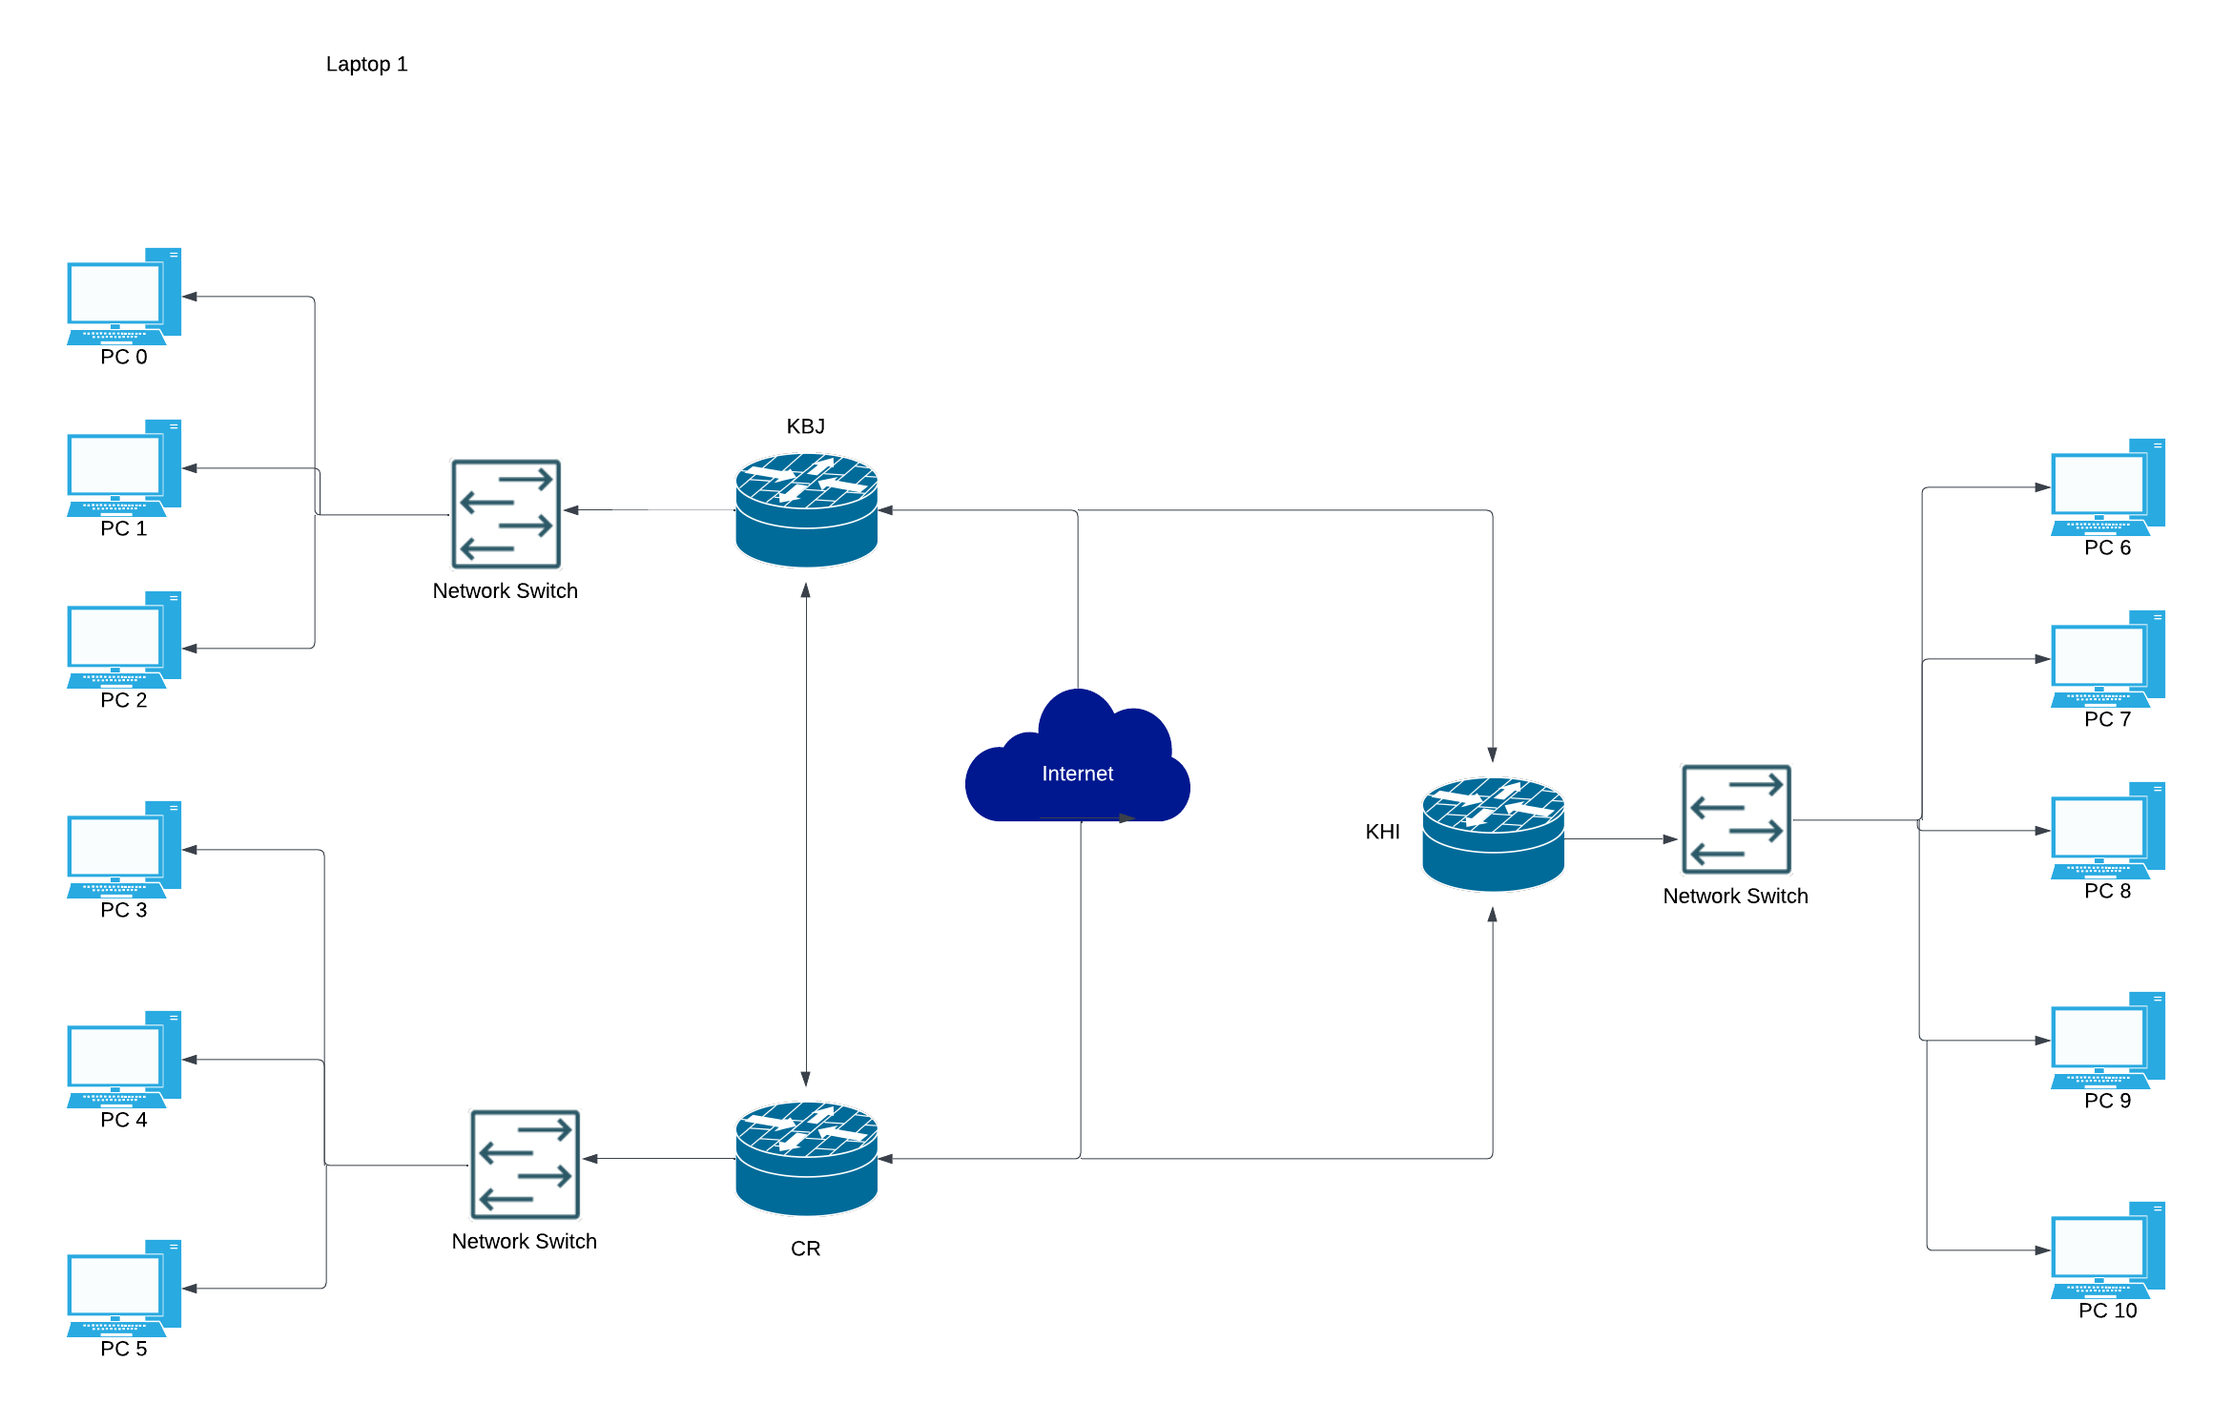
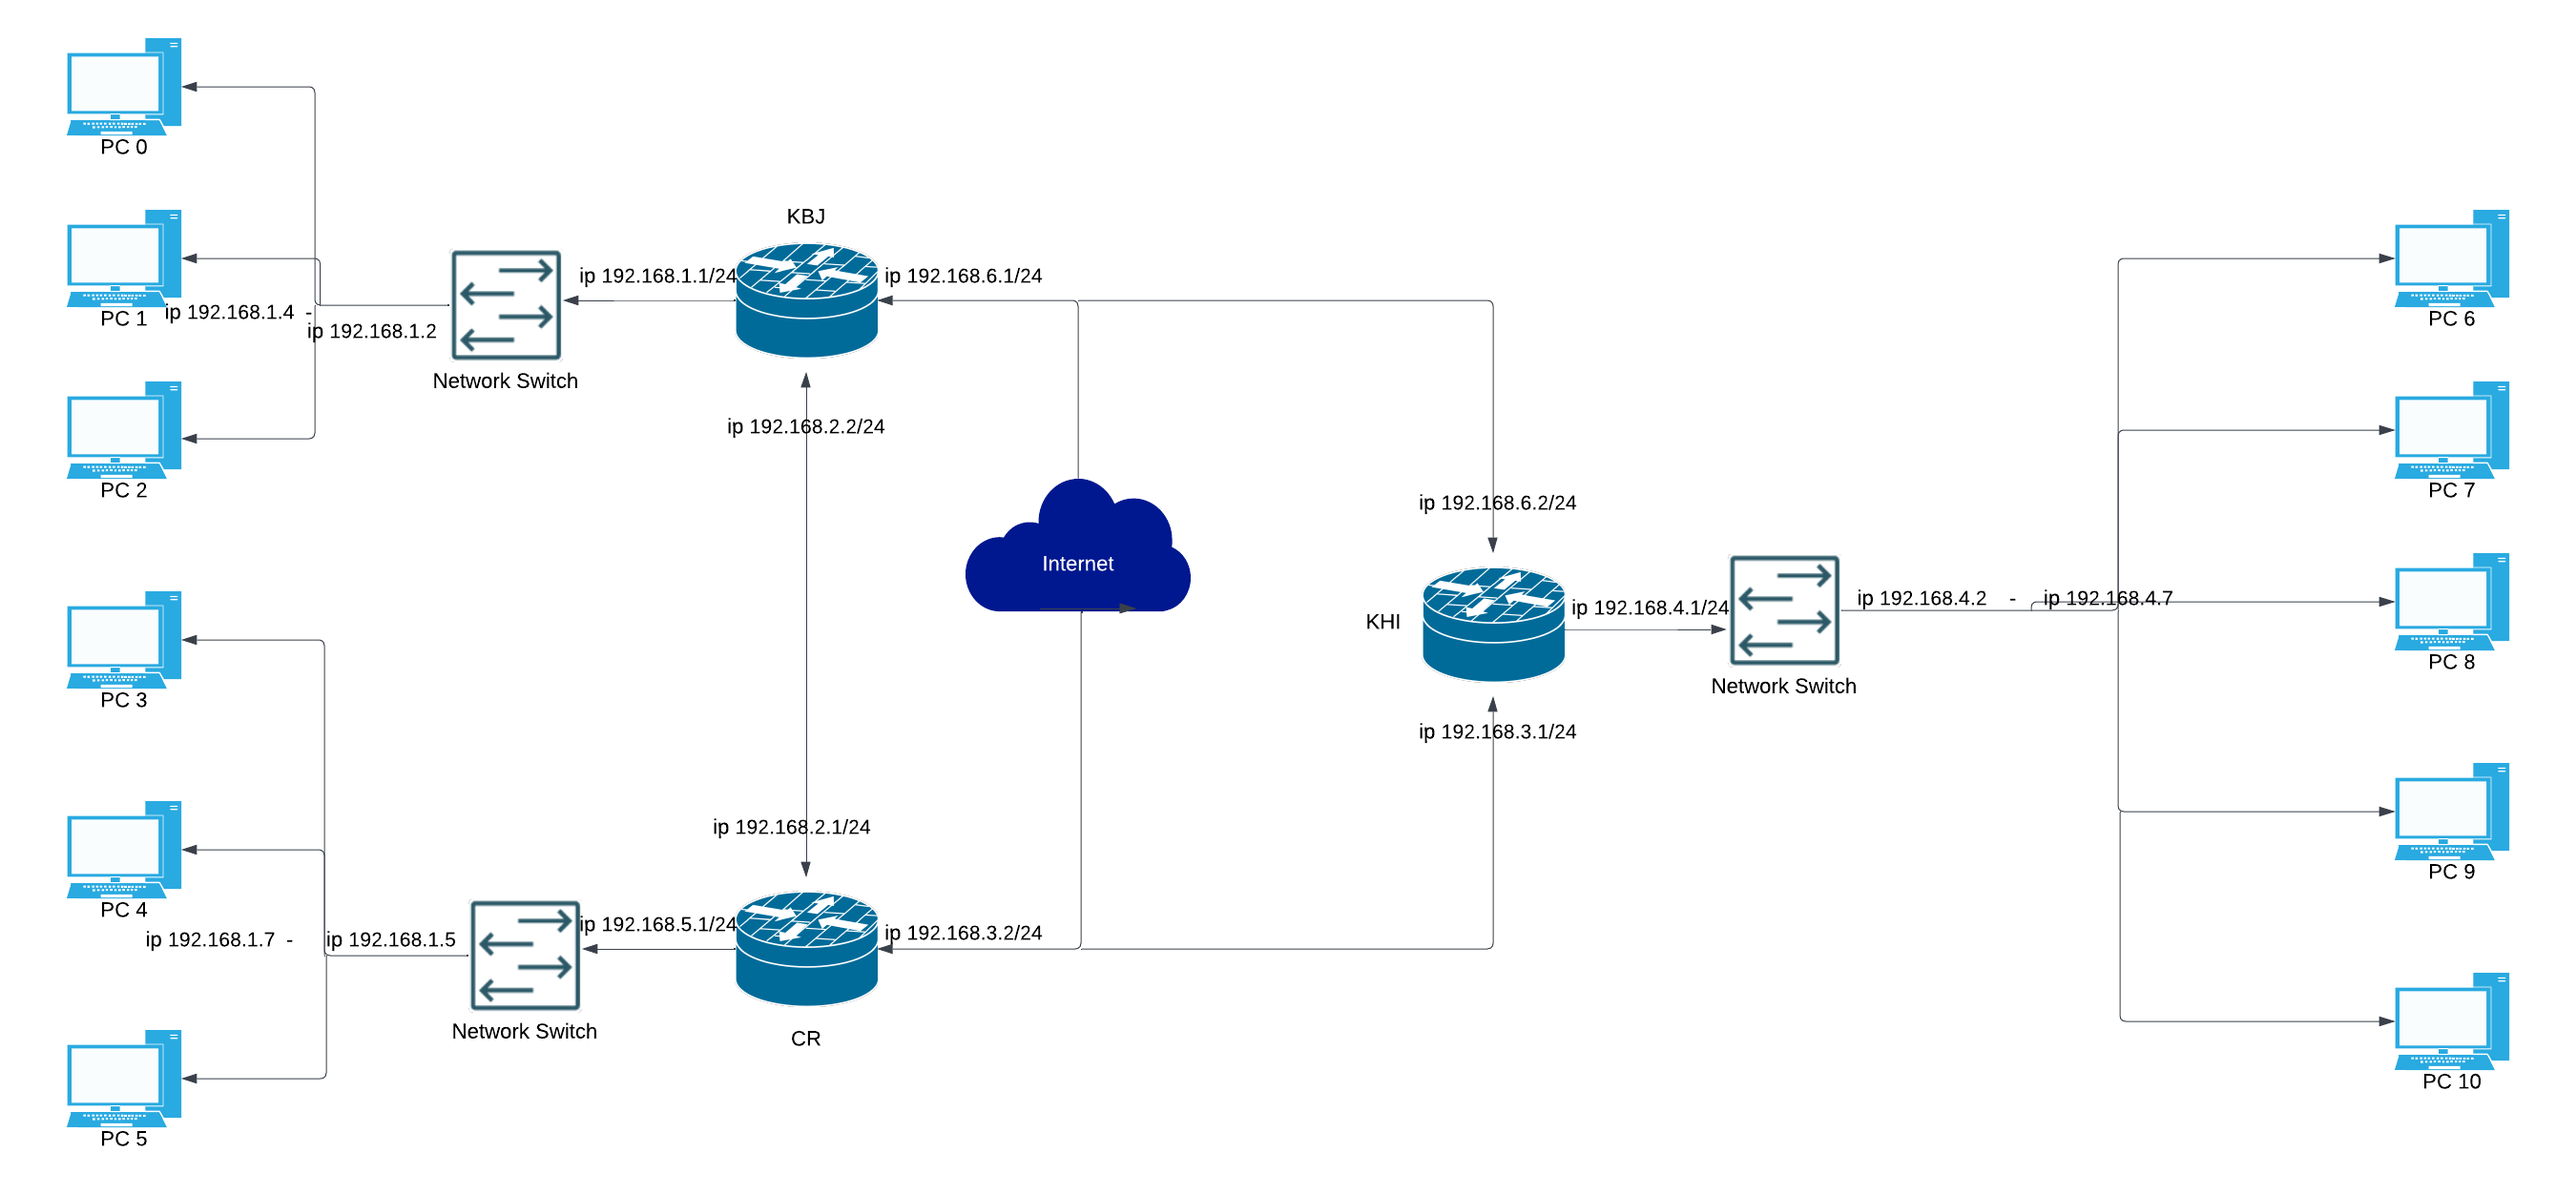
uts

diff --git a/keterangan_topologi.md b/keterangan_topologi.md
@@ -1,4 +1,4 @@
-# Topologi jaringan yang digambarkan mengadopsi struktur star (bintang) pada setiap jaringan lokal yang terhubung ke switch masing-masing, yang kemudian dihubungkan ke router utama. Terdapat tiga router utama dalam jaringan ini, yaitu KBJ, CR, dan KHI. Router KBJ bertindak sebagai gateway untuk Network 1 (192.168.1.0/24) yang menghubungkan PC 0 hingga PC 5 melalui switch, serta terhubung ke router CR melalui Network 2 (192.168.2.0/24). Router CR berfungsi sebagai pusat penghubung yang menghubungkan router KBJ dengan router KHI melalui Network 3 (192.168.3.0/24), memungkinkan komunikasi antar jaringan. 
-# Router KHI kemudian menghubungkan ke Network 4 (192.168.4.0/24) yang menghubungkan PC 6 hingga PC 10 melalui switch, sekaligus terhubung kembali ke router CR. 
-# Semua router menggunakan protokol routing dinamis RIP (Routing Information Protocol) versi 2 untuk memastikan pertukaran informasi routing yang efisien antar jaringan. Setiap perangkat PC dikonfigurasi dengan alamat IP statis sesuai subnet masing-masing, dengan gateway default yang ditetapkan ke alamat IP router terdekat. 
-# Simbol Internet dalam topologi ini mewakili konektivitas antar-segment yang disimulasikan melalui konfigurasi routing antar router KBJ, CR, dan KHI, memungkinkan komunikasi baik dalam jaringan lokal maupun antar subnet. Struktur ini memastikan skalabilitas dan efisiensi dalam pengelolaan jaringan, serta memfasilitasi komunikasi yang lancar antara berbagai segmen jaringan melalui router pusat.
+Topologi jaringan yang digambarkan mengadopsi struktur star (bintang) pada setiap jaringan lokal yang terhubung ke switch masing-masing, yang kemudian dihubungkan ke router utama. Terdapat tiga router utama dalam jaringan ini, yaitu KBJ, CR, dan KHI. Router KBJ bertindak sebagai gateway untuk Network 1 (192.168.1.0/24) yang menghubungkan PC 0 hingga PC 5 melalui switch, serta terhubung ke router CR melalui Network 2 (192.168.2.0/24). Router CR berfungsi sebagai pusat penghubung yang menghubungkan router KBJ dengan router KHI melalui Network 3 (192.168.3.0/24), memungkinkan komunikasi antar jaringan. 
+Router KHI kemudian menghubungkan ke Network 4 (192.168.4.0/24) yang menghubungkan PC 6 hingga PC 10 melalui switch, sekaligus terhubung kembali ke router CR. 
+Semua router menggunakan protokol routing dinamis RIP (Routing Information Protocol) versi 2 untuk memastikan pertukaran informasi routing yang efisien antar jaringan. Setiap perangkat PC dikonfigurasi dengan alamat IP statis sesuai subnet masing-masing, dengan gateway default yang ditetapkan ke alamat IP router terdekat. 
+Simbol Internet dalam topologi ini mewakili konektivitas antar-segment yang disimulasikan melalui konfigurasi routing antar router KBJ, CR, dan KHI, memungkinkan komunikasi baik dalam jaringan lokal maupun antar subnet. Struktur ini memastikan skalabilitas dan efisiensi dalam pengelolaan jaringan, serta memfasilitasi komunikasi yang lancar antara berbagai segmen jaringan melalui router pusat.

diff --git a/konfigurasi.md b/konfigurasi.md
@@ -1,0 +1,79 @@
+# Konfigurasi IP dan RIP pada Router KBJ
+
+Router> enable
+Router# configure terminal
+Router(config)# hostname KBJ
+
+! Interface yang terhubung ke switch
+KBJ(config)# interface gigabitEthernet 0/0
+KBJ(config-if)# ip address 192.168.1.1 255.255.255.0
+KBJ(config-if)# no shutdown
+
+! Interface yang terhubung ke CR
+KBJ(config)# interface gigabitEthernet 0/1
+KBJ(config-if)# ip address 192.168.2.1 255.255.255.0
+KBJ(config-if)# no shutdown
+
+! Aktifkan RIP
+KBJ(config)# router rip
+KBJ(config-router)# version 2
+KBJ(config-router)# network 192.168.1.0
+KBJ(config-router)# network 192.168.2.0
+KBJ(config-router)# exit
+
+# Konfigurasi IP dan RIP pada Router CR
+
+Router> enable
+Router# configure terminal
+Router(config)# hostname CR
+
+! Interface yang terhubung ke KBJ
+CR(config)# interface gigabitEthernet 0/0
+CR(config-if)# ip address 192.168.2.2 255.255.255.0
+CR(config-if)# no shutdown
+
+! Interface yang terhubung ke KHI
+CR(config)# interface gigabitEthernet 0/1
+CR(config-if)# ip address 192.168.3.1 255.255.255.0
+CR(config-if)# no shutdown
+
+! Aktifkan RIP
+CR(config)# router rip
+CR(config-router)# version 2
+CR(config-router)# network 192.168.2.0
+CR(config-router)# network 192.168.3.0
+CR(config-router)# exit
+
+# Konfigurasi IP dan RIP pada Router KHI
+
+Router> enable
+Router# configure terminal
+Router(config)# hostname KHI
+
+! Interface yang terhubung ke switch
+KHI(config)# interface gigabitEthernet 0/0
+KHI(config-if)# ip address 192.168.4.1 255.255.255.0
+KHI(config-if)# no shutdown
+
+! Interface yang terhubung ke CR
+KHI(config)# interface gigabitEthernet 0/1
+KHI(config-if)# ip address 192.168.3.2 255.255.255.0
+KHI(config-if)# no shutdown
+
+! Aktifkan RIP
+KHI(config)# router rip
+KHI(config-router)# version 2
+KHI(config-router)# network 192.168.3.0
+KHI(config-router)# network 192.168.4.0
+KHI(config-router)# exit
+
+# Konfigurasi IP Statis pada PC
+
+IP Address: 192.168.1.2
+Subnet Mask: 255.255.255.0
+Default Gateway: 192.168.1.1
+
+IP Address: 192.168.4.2
+Subnet Mask: 255.255.255.0
+Default Gateway: 192.168.4.1
+ 
